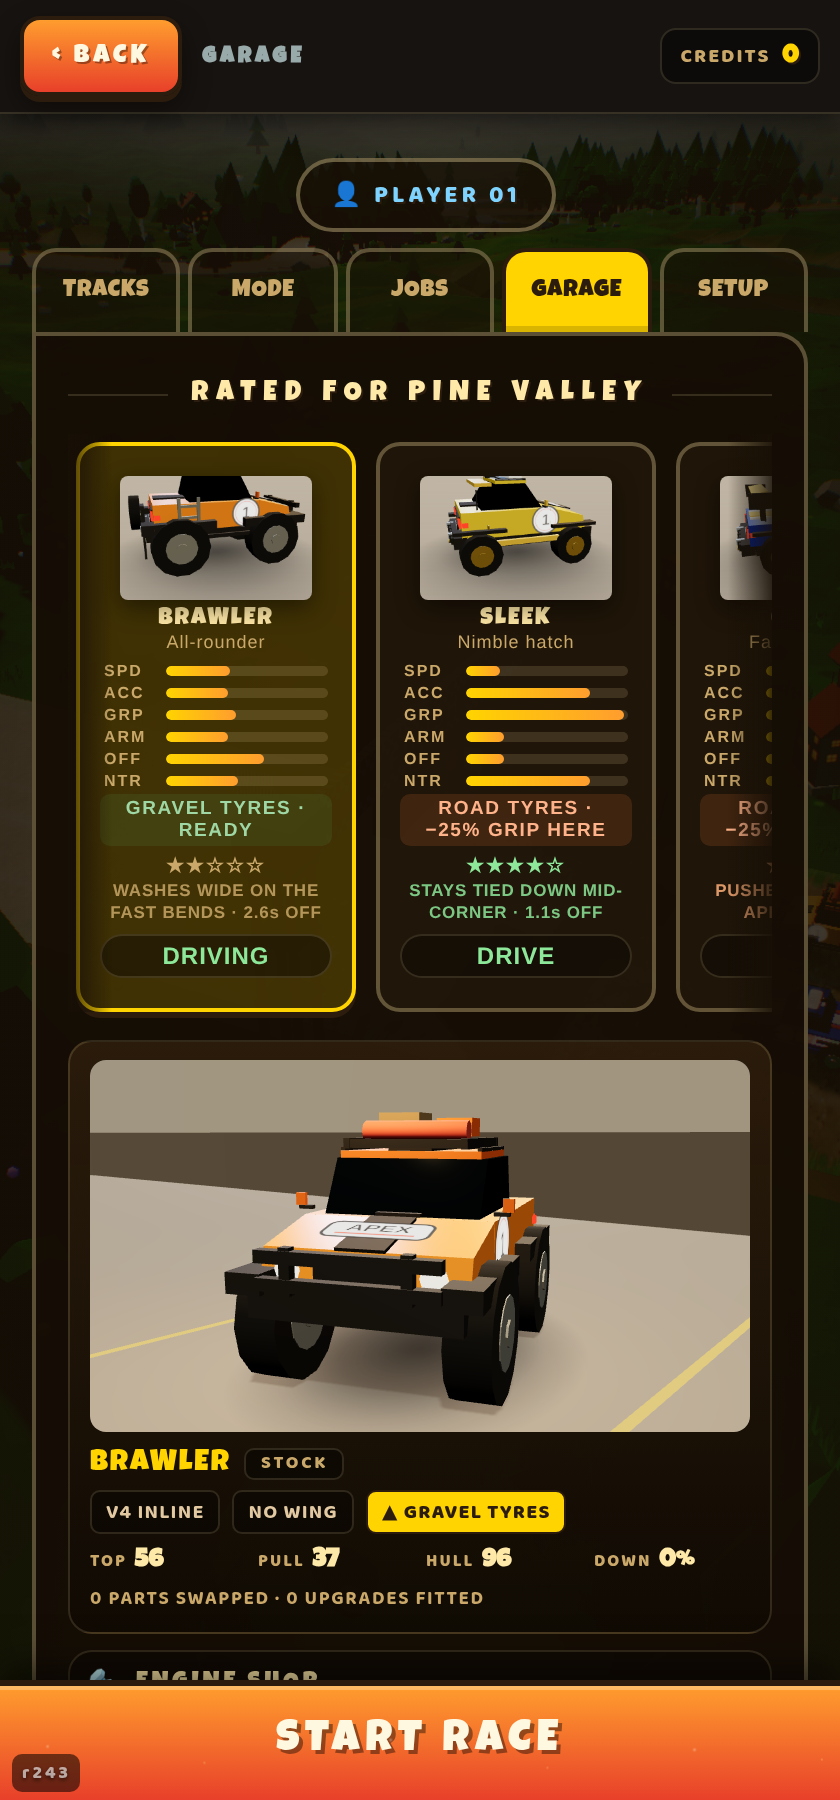
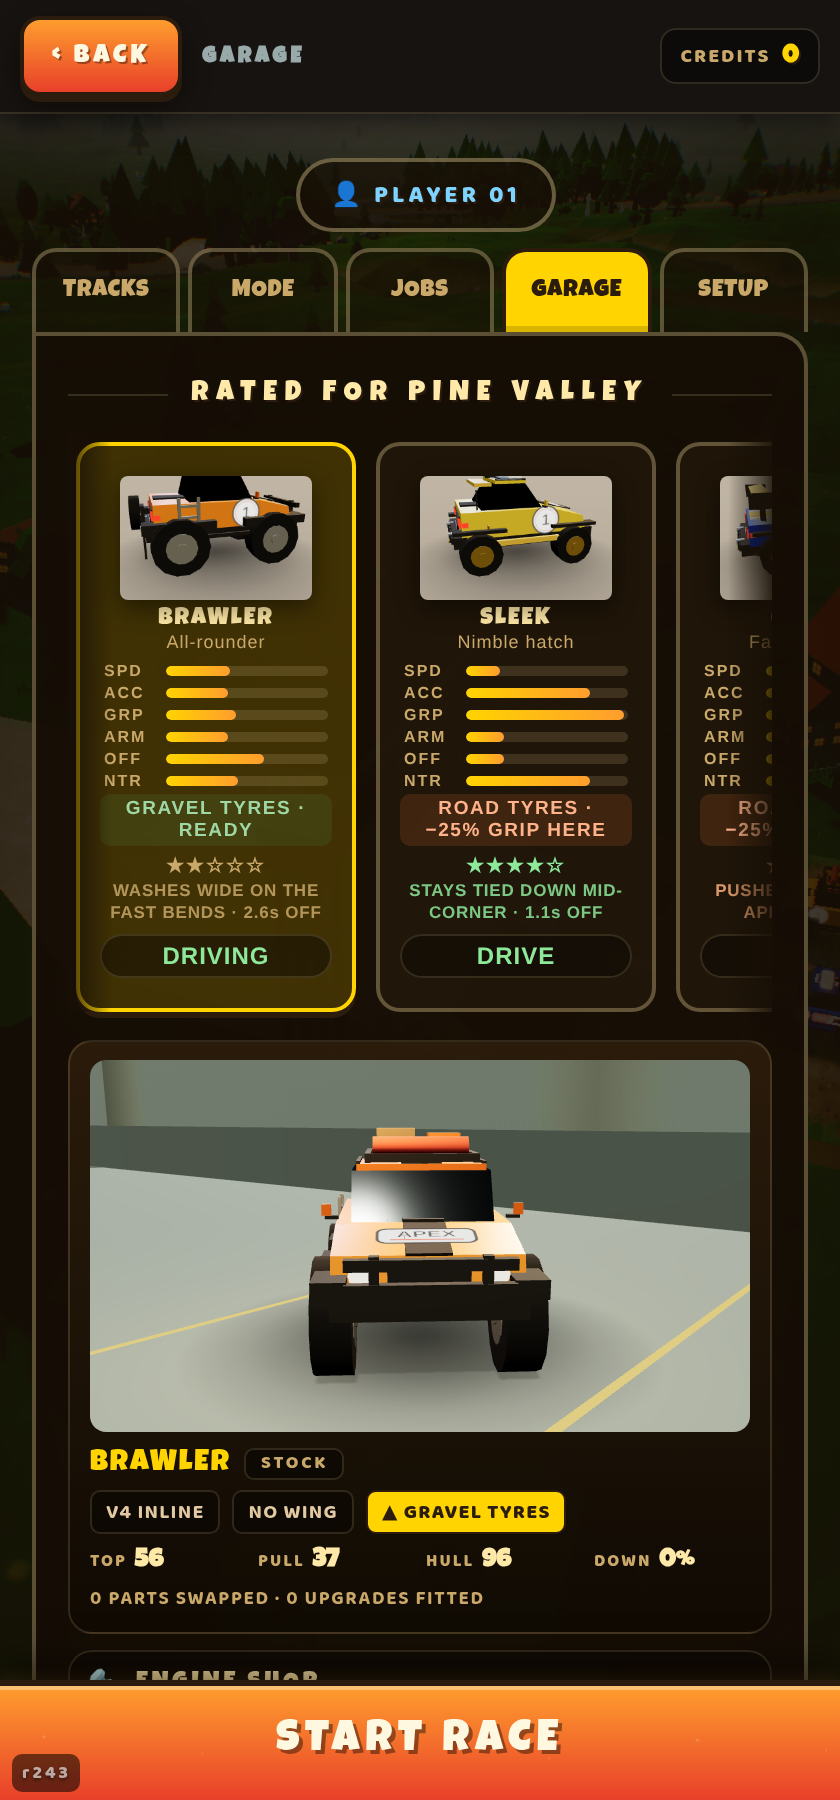
Repaint the build bay for the car standing in it, and move its light
A fixed set cannot serve a navy car and a white one — the report was a
dark blue machine on grey concrete, the two at the same value with no
edge between them. The bay takes its colour from the hull now: lightness
against the car's own luminance, hue a third of the wheel off it so a
warm car never stands on warm concrete, saturation near zero because
this is concrete and not a colour wash. Bay lines swap gold for a darker
ochre when the room goes pale, or they vanish into it.

Body-to-wall gap per car: BASTION 71, PIT 67, CROWN 41, ALPINE 83, DUNE
90, SLEEK 75, FLATSIX 35, BRAWLER 13.

The wall also has light crossing it — a repeat-wrapped band walked in
the turntable's own tick, slow enough that a feature takes about eight
seconds to cross the visible slice.

The tuning metric sent me the wrong way first and it is written up in
HANDOVER.md: a car's pixels are half tyre and glass, so their mean calls
a white car mid-grey, and darkening the room for it read as making
things worse. On body brightness the sweep is unambiguous, and it also
shows 0.42 makes the silver car disappear into its own backdrop.

Gates: boot 4/4 clean.

Claude-Session: https://claude.ai/code/session_01URrqS2kzo9eCa3Prp4kpvs

diff --git a/src/main.js b/src/main.js
@@ -4624,12 +4624,14 @@ class Game {
     floor.receiveShadow = true;
     scene.add(floor);
     // the painted bay outline the car is parked inside
+    const lines = [];
     for (const sx of [-3.4, 3.4]) {
       const line = new THREE.Mesh(new THREE.PlaneGeometry(0.16, 15),
         new THREE.MeshBasicMaterial({ color: 0xf0bb4a, transparent: true, opacity: 0.8 }));
       line.rotation.x = -Math.PI / 2;
       line.position.set(sx, 0.01, 0);
       scene.add(line);
+      lines.push(line);
     }
     // THE BACK WALL IN TWO BANDS, which is what a workshop actually has and —
     // more to the point — gives a black roofline something pale to cut against
@@ -4640,8 +4642,9 @@ class Game {
     // them as a black wedge with a hard diagonal edge, which is what the "make
     // it lighter" report was partly looking at. A backdrop with a visible edge
     // is not a backdrop.
+    const wallTex = this._bayWallTexture();
     const wall = new THREE.Mesh(new THREE.PlaneGeometry(160, 70),
-      new THREE.MeshStandardMaterial({ color: 0xb2a695, roughness: 1 }));
+      new THREE.MeshStandardMaterial({ color: 0xb2a695, roughness: 1, map: wallTex }));
     wall.position.set(0, 30, -15);
     scene.add(wall);
     const dado = new THREE.Mesh(new THREE.PlaneGeometry(160, 3.2),
@@ -4684,7 +4687,8 @@ class Game {
 
     const pivot = new THREE.Group();
     scene.add(pivot);
-    this.__stage = { cvs, r, scene, cam, pivot, spin: 0, sig: null, raf: 0, last: 0 };
+    this.__stage = { cvs, r, scene, cam, pivot, spin: 0, sig: null, raf: 0, last: 0,
+      wall, floor, dado, wallTex, lines };
     return this.__stage;
   }
 
@@ -4731,6 +4735,20 @@ class Game {
     mesh.traverse((o) => { if (o.isMesh) o.castShadow = o !== mesh.userData?.carLights; });
     st.car = mesh;
     st.pivot.add(mesh);
+    // THE ROOM IS REPAINTED FOR THE CAR. See `_bayPalette`.
+    if (st.wall) {
+      const pal = this._bayPalette(mesh.userData?.bodyMat?.color
+        ?? new THREE.Color(0x808080));
+      st.wall.material.color.copy(pal.wall);
+      st.floor.material.color.copy(pal.floor);
+      st.dado.material.color.copy(pal.dado);
+      // ...and the bay lines have to stay legible on it: gold on a pale room
+      // is nearly invisible, so they darken as the room lightens.
+      for (const o of st.lines ?? []) {
+        o.material.color.setHex(pal.lightCar ? 0xf0bb4a : 0x8a5f18);
+        o.material.opacity = pal.lightCar ? 0.8 : 0.95;
+      }
+    }
     // A CONTACT SHADOW, because the key light cannot give one here. The key
     // sits at (5, 9, 6) and the camera looks in from (6.4, 3.4, 7.6) — nearly
     // the same azimuth — so the cast shadow falls behind the car and the car
@@ -4817,6 +4835,9 @@ class Game {
       st.last = t;
       st.spin += dt * 0.42;
       st.pivot.rotation.y = st.spin;
+      // the light crossing the wall — slow enough that it reads as a room
+      // being lit rather than as something happening
+      if (st.wallTex) st.wallTex.offset.x = (st.wallTex.offset.x - dt * 0.024) % 1;
       const w = st.cvs.clientWidth || 300;
       const h = st.cvs.clientHeight || 190;
       if (st.w !== w || st.h !== h || st.framedFor !== st.sig) {
@@ -5055,6 +5076,96 @@ class Game {
    *  for whatever the exposure, and `depthWrite: false` with a renderOrder
    *  behind everything so it can never occlude the subject.
    */
+  /** THE BAY WALL'S OWN TEXTURE, and the reason it moves.
+   *
+   *  A workshop wall that never changes is a backdrop; one with light crossing
+   *  it is a room. This is a wide soft band on white — white so the material's
+   *  own `color` carries the hue, and `RepeatWrapping` so the tick can drift
+   *  the offset and walk the band across the bay. Two bands per repeat, very
+   *  low contrast: the car is the subject, and a backdrop you look AT is a
+   *  worse failure than one you look past.
+   */
+  _bayWallTexture() {
+    const c = document.createElement('canvas');
+    c.width = 512; c.height = 128;
+    const g = c.getContext('2d');
+    g.fillStyle = '#ffffff';
+    g.fillRect(0, 0, 512, 128);
+    for (const cx of [128, 384]) {
+      const grd = g.createLinearGradient(cx - 150, 0, cx + 150, 0);
+      grd.addColorStop(0, 'rgba(255,255,255,0)');
+      grd.addColorStop(0.5, 'rgba(255,255,255,1)');
+      grd.addColorStop(1, 'rgba(255,255,255,0)');
+      g.fillStyle = '#c9c1b4';
+      g.fillRect(cx - 150, 0, 300, 128);
+      g.globalCompositeOperation = 'lighter';
+      g.fillStyle = grd;
+      g.fillRect(cx - 150, 0, 300, 128);
+      g.globalCompositeOperation = 'source-over';
+    }
+    // a slow vertical fall as well, so the band is not a flat stripe
+    const vg = g.createLinearGradient(0, 0, 0, 128);
+    vg.addColorStop(0, 'rgba(255,255,255,0.12)');
+    vg.addColorStop(1, 'rgba(0,0,0,0.10)');
+    g.fillStyle = vg;
+    g.fillRect(0, 0, 512, 128);
+    const t = new THREE.CanvasTexture(c);
+    t.wrapS = t.wrapT = THREE.RepeatWrapping;
+    t.repeat.set(2.2, 1);
+    t.colorSpace = THREE.SRGBColorSpace;
+    return t;
+  }
+
+  /** WHAT COLOUR THE BAY SHOULD BE FOR THIS CAR.
+   *
+   *  A dark navy machine on a mid-grey floor is the report — the two sit at
+   *  the same value and the car has no edge. So the bay is not a fixed set:
+   *  it takes its lightness FROM the car and goes the other way, and shifts
+   *  its hue away from the car's so a warm car never stands on warm concrete.
+   *  Returns wall / floor / dado, always in that light-to-dark order so the
+   *  room still reads as a room.
+   */
+  /** How dark the room goes for the brightest car, in linear lightness.
+   *
+   *  Swept in `baycontrast.mjs` against BODY brightness (car P75, not the
+   *  silhouette mean). Body-to-wall gap at 0.22 / 0.30 / 0.42:
+   *
+   *    sleek   67 / 51 / 33      dune    88 / 72 / 54
+   *    alpine  80 / 64 / 46      flatsix 35 / 18 /  0
+   *    brawler 19 / 30 / 44      crown, bastion, pit unaffected (pinned light)
+   *
+   *  0.42 makes the silver FLATSIX disappear into its own backdrop. 0.22 is
+   *  best for every light car and its only weak case is BRAWLER at 19 — an
+   *  orange body on a grey-green wall, where the hue offset carries a contrast
+   *  a luminance number cannot see.
+   */
+  BAY_DARK_END = 0.22;
+
+  _bayPalette(carColor) {
+    const hsl = { h: 0, s: 0, l: 0 };
+    carColor.getHSL(hsl);
+    // the car's own luminance, not its HSL lightness: a saturated yellow at
+    // l=0.5 is far brighter to the eye than a navy at the same l
+    const lum = 0.2126 * carColor.r + 0.7152 * carColor.g + 0.0722 * carColor.b;
+    const t = THREE.MathUtils.smoothstep(lum, 0.06, 0.5);   // 0 dark car, 1 light car
+    // Linear-space lightness — `setHSL` works in the renderer's working space,
+    // so BAY_DARK_END 0.22 lands around sRGB #7d and 0.80 around #e9. A
+    // near-white car needs a room to stand against, but the dark end stops
+    // well short of black: "not black" and "contrasting" are both in the brief
+    // and the second must not undo the first. Swept in `baycontrast.mjs`
+    // against the car's BODY brightness, not its silhouette mean — a mean that
+    // includes tyres and glass says a white car is mid-grey and sends the
+    // sweep the wrong way.
+    const wallL = THREE.MathUtils.lerp(0.80, this.BAY_DARK_END, t);
+    // push the room's hue a third of the wheel off the car's, and keep it
+    // barely saturated — this is concrete, not a colour wash
+    const h = (hsl.h + 0.36) % 1;
+    const sat = 0.05 + hsl.s * 0.05;
+    const mk = (l) => new THREE.Color().setHSL(h, sat, l);
+    return { wall: mk(wallL), floor: mk(wallL * 0.78), dado: mk(wallL * 0.44),
+      lightCar: t > 0.5 };
+  }
+
   _studioSweep() {
     const c = document.createElement('canvas');
     c.width = 4; c.height = 256;

diff --git a/HANDOVER.md b/HANDOVER.md
@@ -2758,3 +2758,56 @@ read as gaps; and it scored the whole `oldtown-frontage` mesh, which carries
 the five deliberately-sparse ranks BEHIND the terrace as well as the street. On
 the frontage rank alone, with column 0 as the width, the real figures are
 17-38% and the terrace mostly abuts. MEASURE THE POPULATION YOU MEAN.
+
+## r259 — A GARAGE THAT IS NOT BLACK, AND A ROOM THAT MOVES
+Two reports, one screen. "Light up all background in the garage, so it is not
+black" and then, on a navy car standing on grey concrete, "make it move
+contrasting background".
+
+### THE BAY WAS NOT THE PROBLEM
+`bayblack.mjs` reads the stage's own canvas and grids the dark pixels. The bay
+measures a mean luminance of 121 with 17% dark, and that 17% is the car's own
+tyres, glass and bumper. The CARDS were black: `_studio` renders with
+`alpha: true` and no backdrop at all, so every car and part picture was a
+cut-out floating on a near-black panel — 20-31% of each shelf icon's opaque
+pixels under luminance 34, mean 28.
+
+A cyclorama fixes all of them at once: one unlit gradient plane squared up to
+the studio's fixed three-quarter rig, 110 u across at 42 u back, which fills a
+30-degree frame from every distance the studio shoots from. Untone-mapped, so
+it is exactly the colour asked for whatever the exposure. Shelf icons go 28 →
+107 mean with no transparency left. Car shots also get a painted contact disc,
+because a car on a seamless sweep with nothing under it floats. The four
+upgrade ladders that show a glyph rather than a rendered part got the same pale
+plate in CSS — three photographs among four holes is a ragged column.
+
+### THE ROOM TAKES ITS COLOUR FROM THE CAR
+A fixed set cannot serve a navy car and a white one. `_bayPalette` reads the
+hull colour, and goes the other way: lightness interpolated against the car's
+own luminance, hue pushed a third of the wheel off the car's so a warm car
+never stands on warm concrete, saturation kept near zero because this is
+concrete and not a colour wash. The bay lines swap gold for a darker ochre when
+the room goes pale, or they vanish into it.
+
+Body-to-wall gap, per car, at the shipped setting: BASTION 71, PIT 67, CROWN
+41, ALPINE 83, DUNE 90, SLEEK 75, FLATSIX 35, BRAWLER 13.
+
+### AND THE WALL HAS LIGHT CROSSING IT
+A `RepeatWrapping` band texture on the wall, white so the material's colour
+carries the hue, with the offset walked in the turntable's own tick. Slow — a
+feature crosses the visible slice in about eight seconds. A backdrop you look
+AT is a worse failure than one you look past.
+
+### THE METRIC SENT ME THE WRONG WAY FIRST
+The dark end of the lightness ramp was tuned against the mean luminance of the
+car's pixels, and a car's pixels are half tyre and half glass: that mean says
+ALPINE, which is white, is a mid-grey at 96. Tuned on it, darkening the room
+made the measured gap SMALLER and I read that as the change being wrong. On
+body brightness (car P75) the sweep is unambiguous — 0.22 / 0.30 / 0.42 gives
+SLEEK 67/51/33, DUNE 88/72/54, ALPINE 80/64/46, FLATSIX 35/18/0. 0.42 makes the
+silver FLATSIX vanish into its own backdrop entirely. MEASURE THE SUBJECT, NOT
+ITS SILHOUETTE.
+
+BRAWLER's 13 is the one weak number and it is shipped as is: an orange body on
+a grey-green wall, where the hue offset carries a contrast that a luminance gap
+cannot see.

diff --git a/tools-scratch/README.md b/tools-scratch/README.md
@@ -165,6 +165,26 @@ real time to get right and the next session should not rebuild them.
 - `litworlds.mjs` one line per level: sky, dusk flag, and how many of the
                 eight cars have their lamps lit. A daylight world reading
                 `8/8 lit` is the bug it exists to catch.
+- `baycontrast.mjs` does the bay actually contrast with the car in it? Renders
+                every car in the catalogue, stencils the car by hiding
+                everything else, and reports the gap between its BODY (car
+                pixel P75 — the silhouette mean is half tyre and glass, and
+                says a white car is mid-grey) and the background. Also watches
+                the wall texture's offset over real frames, because "the
+                background moves" is either in the numbers or it is a comment.
+                `SWEEP=0.22,0.30,0.42` re-runs every car at those
+                `BAY_DARK_END` values; without it, a one-pass gate.
+- `bayboth.mjs` the bay for a dark, a light and a mid car as three files. The
+                room is repainted from the car, so one screenshot proves
+                nothing.
+- `bayblack.mjs` how much of the bay canvas is black, in a 4x4 grid so the
+                answer says WHICH part is unlit, with the scene graph beside
+                it. It is what showed the bay was already fine and sent the
+                "light up the garage" report to the shelf cards instead.
+- `garageblack.mjs` the whole garage tab: the dark and transparent fraction of
+                every canvas and image on it, plus a shot of the top and of
+                the part shop. The panel scrolls, not the page — it finds the
+                element that actually overflows rather than scrolling `body`.
 - `bayshot2.mjs` the build bay as the garage tab renders it, plus `fill` —
                 how much of the panel the car actually covers. `SPIN=rad`
                 parks the turntable. "The car is small" is a framing
